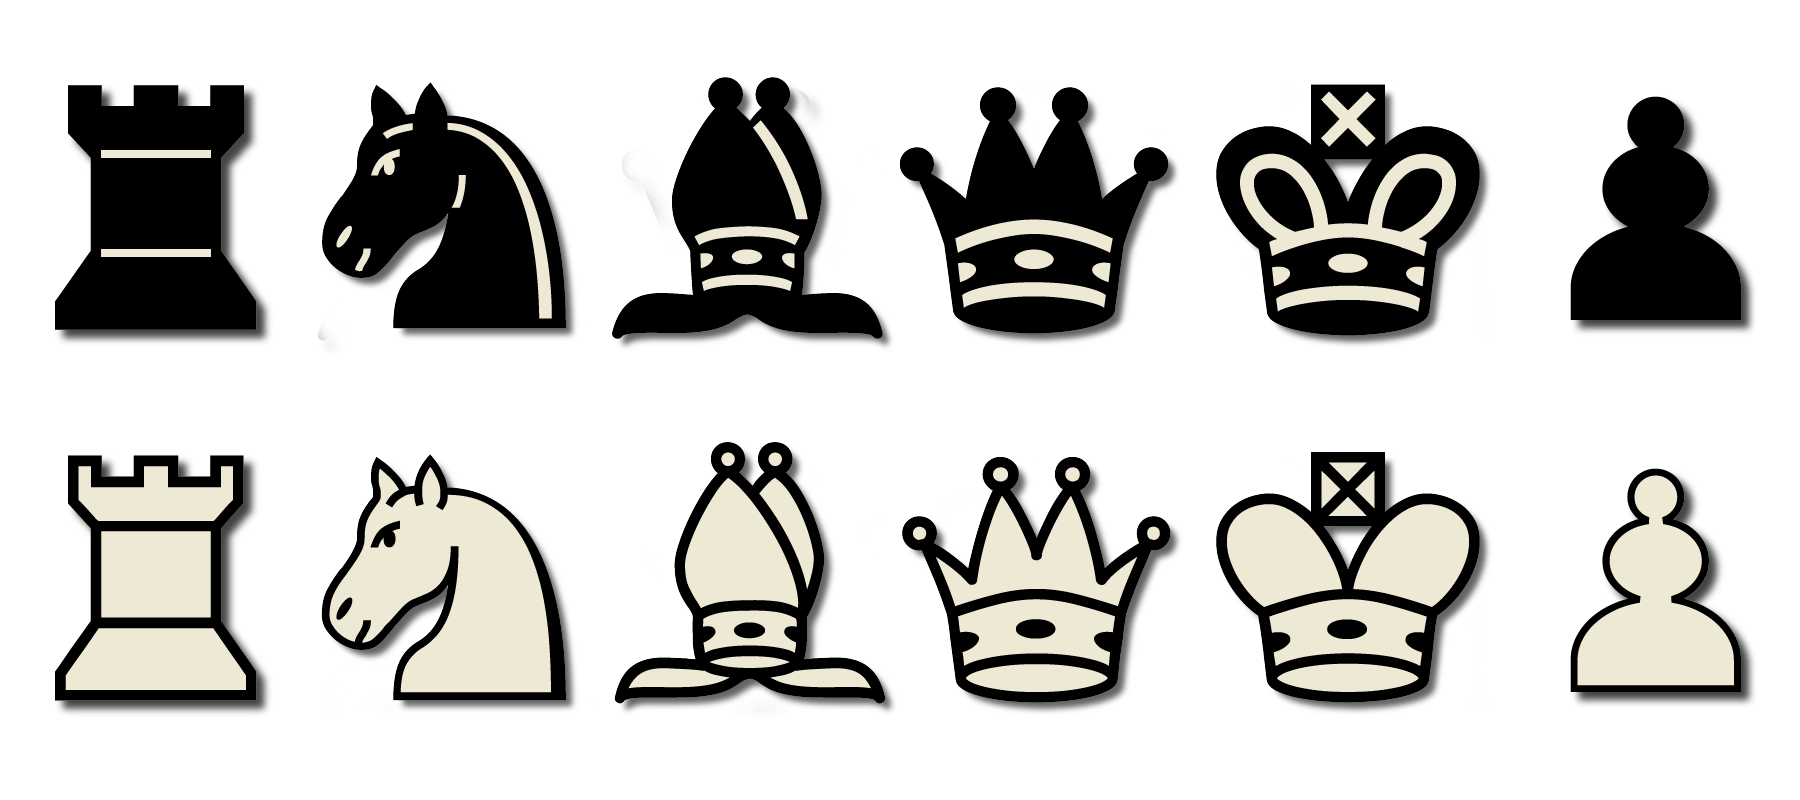
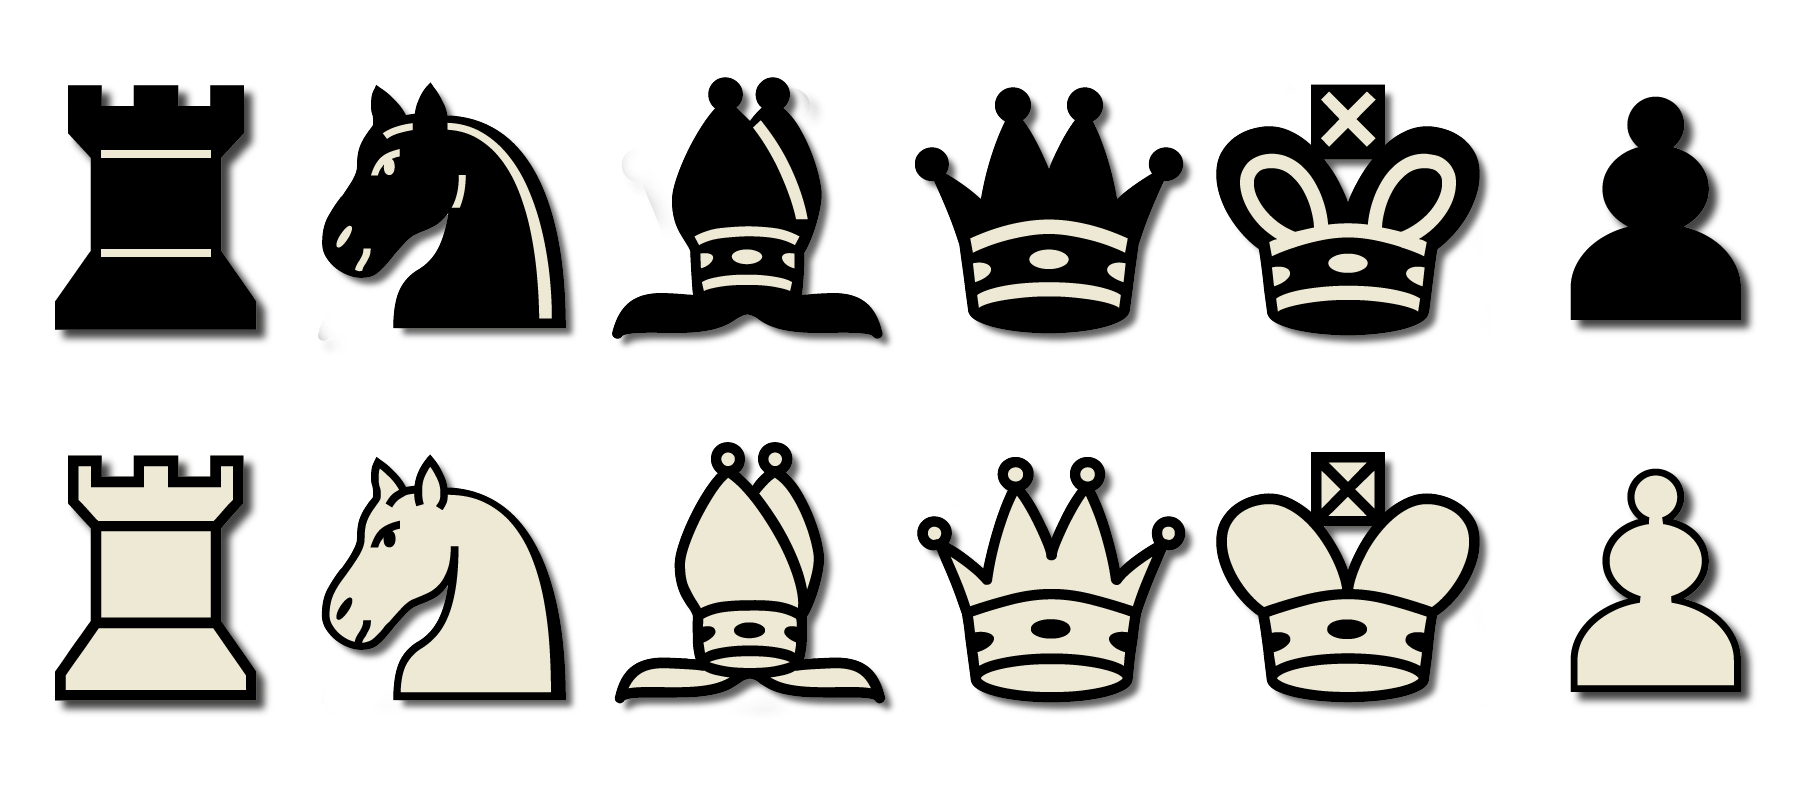
Position changed

Changed region(s): [[0.4978, 0.5625, 0.6844, 0.9062], [0.4978, 0.0938, 0.6844, 0.4375]]

diff --git a/src/Board.cpp b/src/Board.cpp
@@ -33,8 +33,8 @@ void LoadPieces() {
 
 
             //for resizing the pieces cuz it's too biggggg....
-                int newWidth = static_cast<int>(pieceWidth * 0.4);
-                int newHeight = static_cast<int>(pieceHeight* 0.4);
+                int newWidth = static_cast<int>(pieceWidth * 0.38);
+                int newHeight = static_cast<int>(pieceHeight* 0.38);
                 ImageResize(&pieceImage, newWidth, newHeight);
 
 
@@ -54,7 +54,7 @@ void LoadPieces() {
                 Piece piece;
                 piece.type = abs(pieceType) - 1;
                 piece.color = (pieceType > 0) ? 0 : 1;
-                piece.position = Vector2{((float)x*boardWidth)/8, ((float)y*boardHeight)/8};
+                piece.position = Vector2{(((float)x*boardWidth)/8)-7, (((float)y*boardHeight)/8)+34};
                 piece.texture = pieceTextures[piece.color * pieceTypes + piece.type];
                 pieces.push_back(piece);
             }
